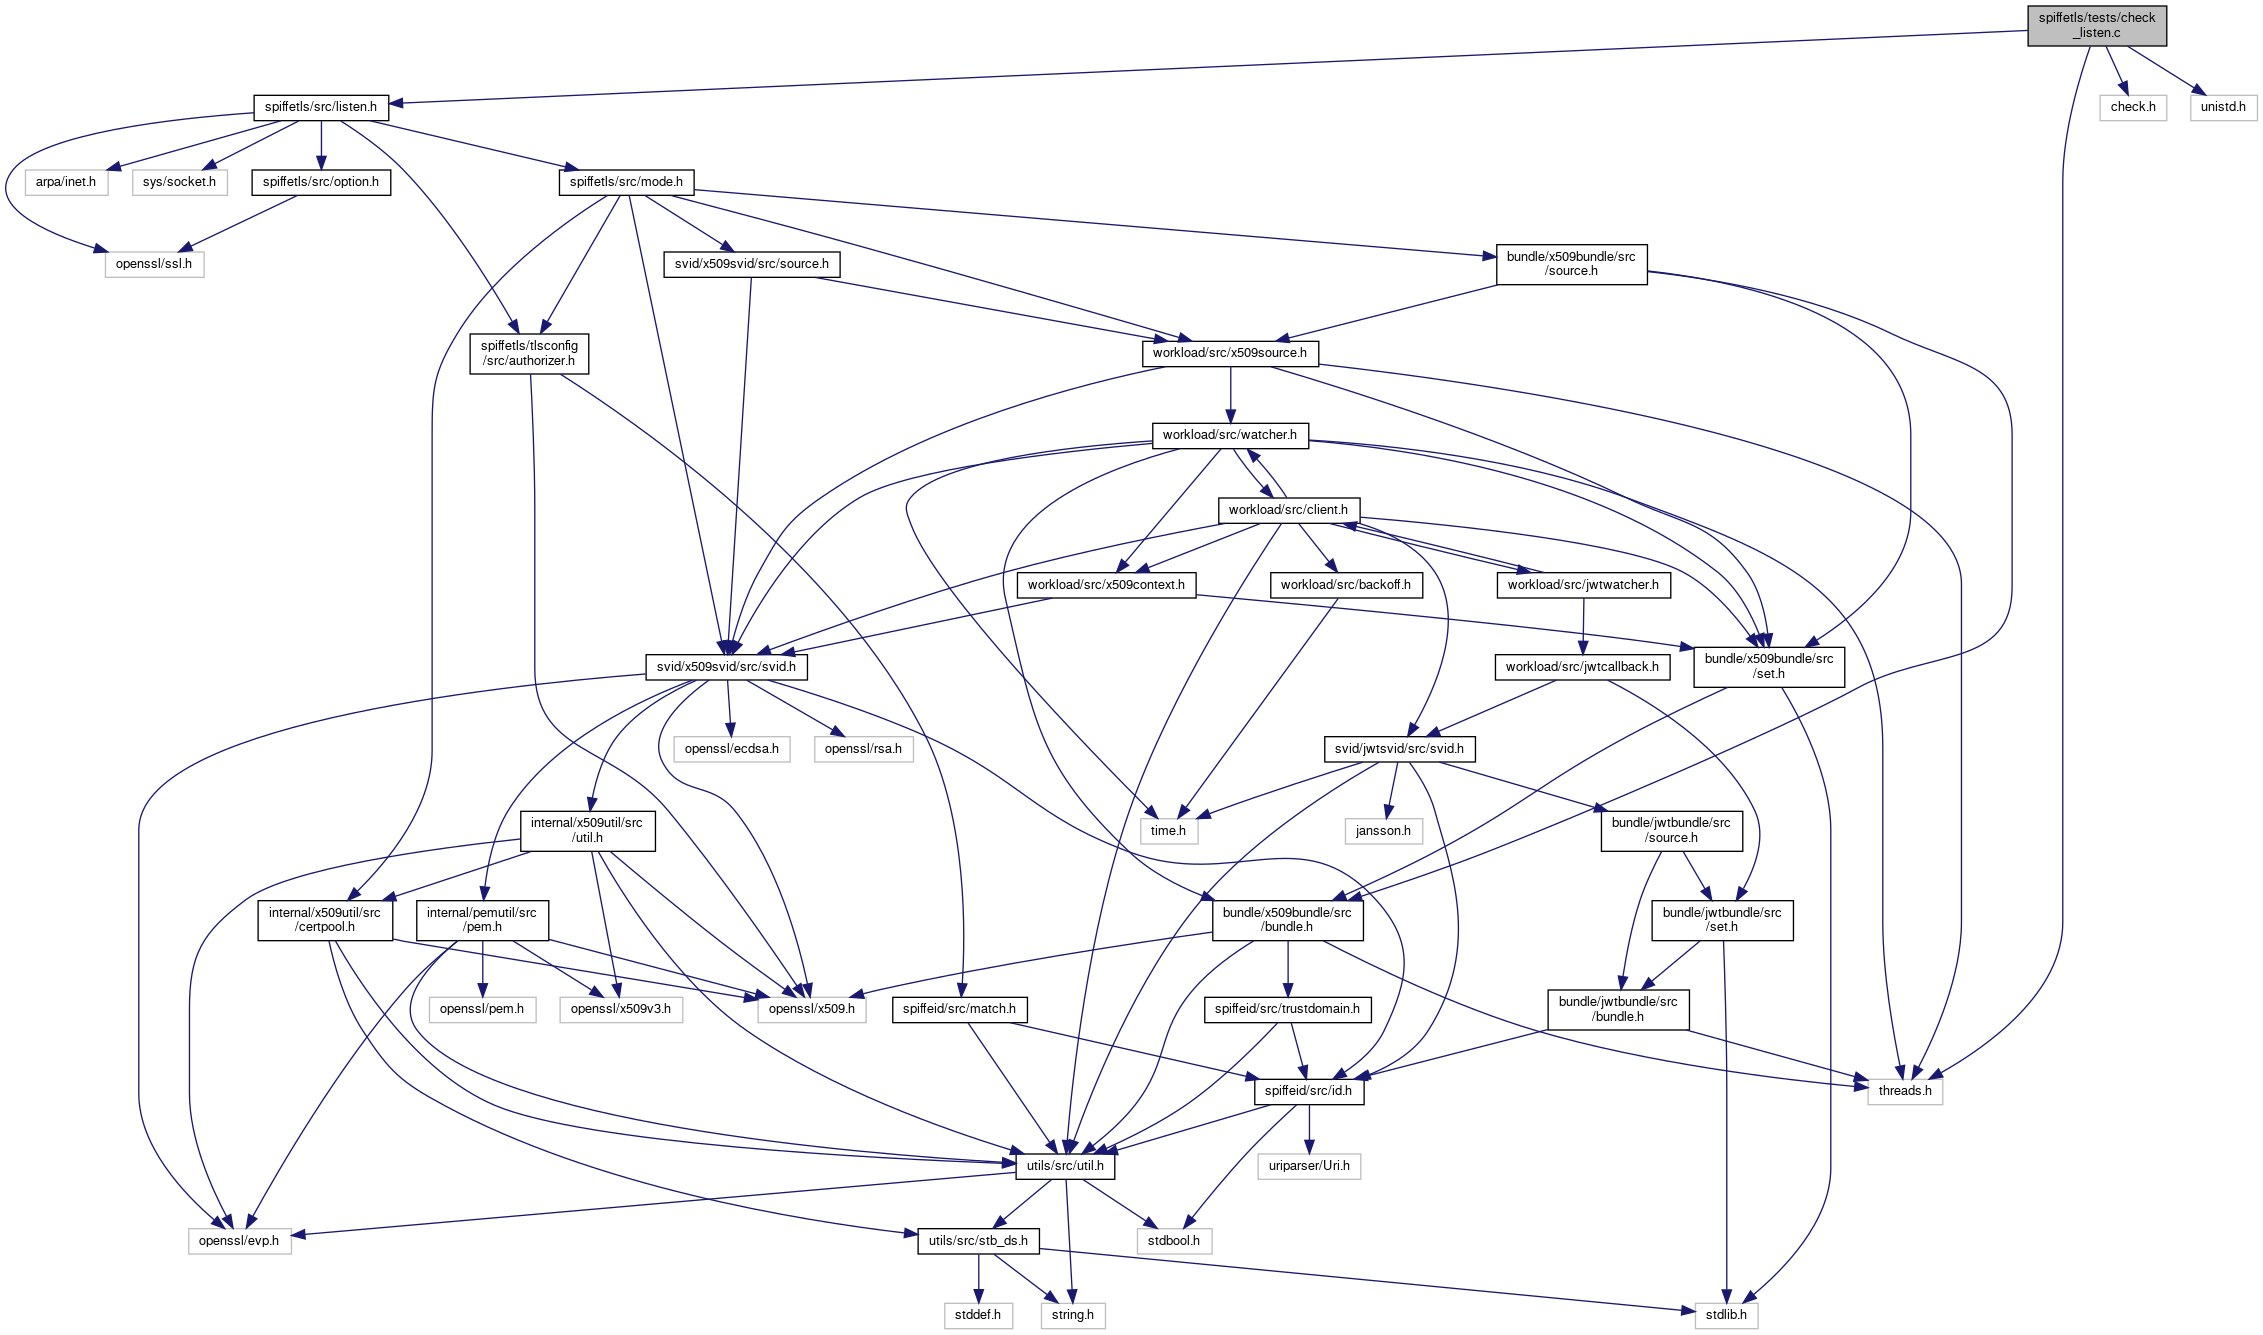
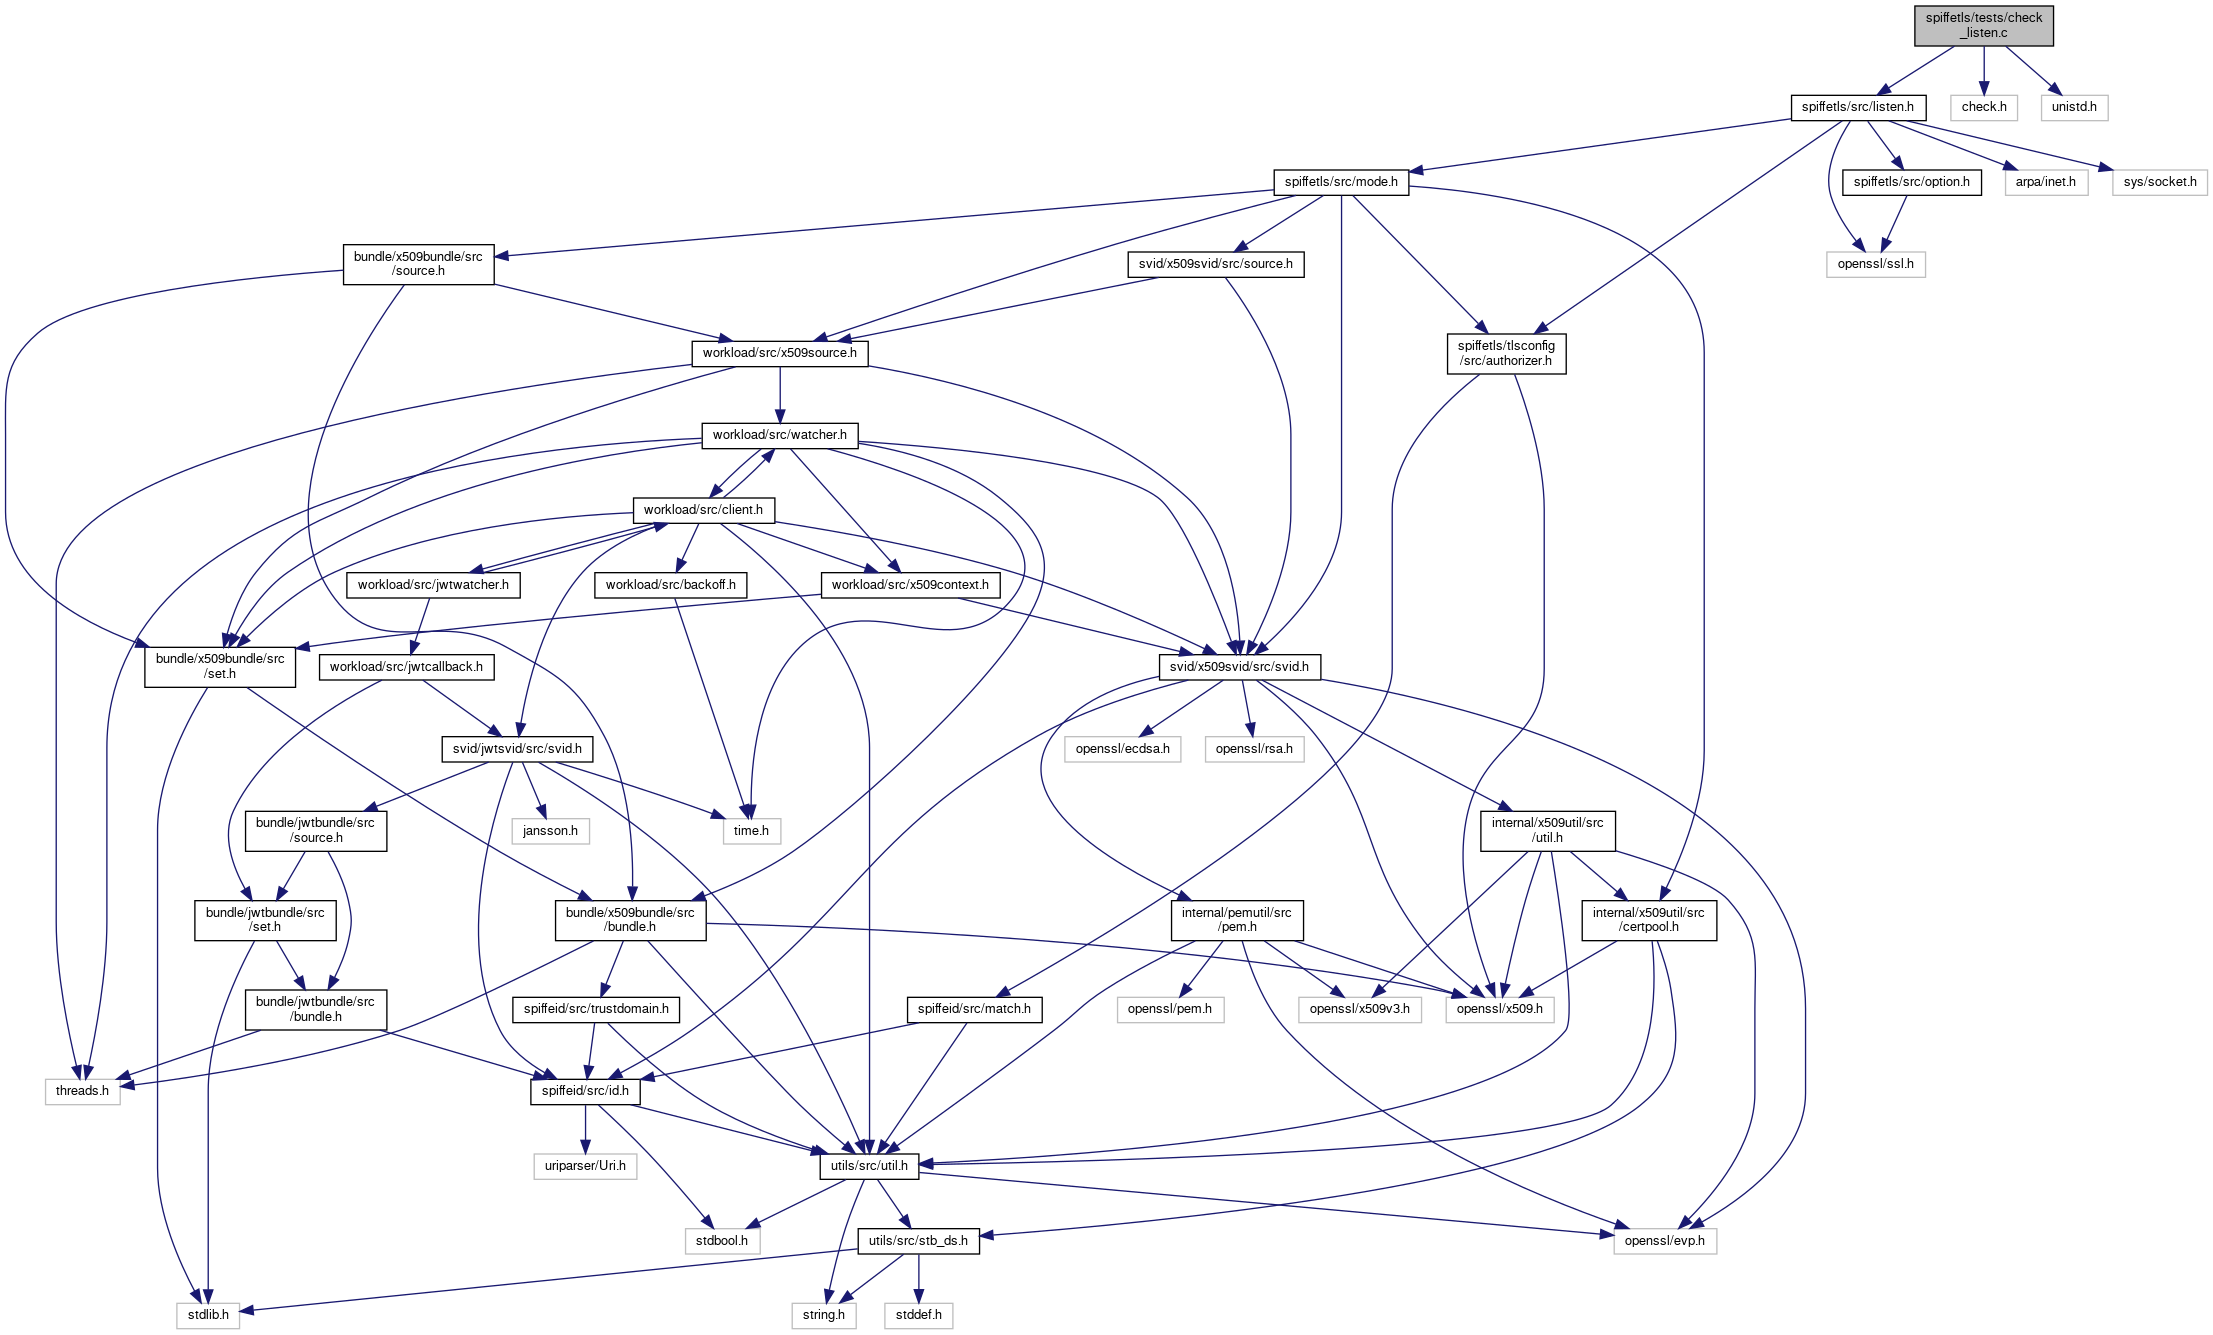
deploy: 0d7f5fcdf945ccb3934a4ad418f48ba62cfd3ca9

diff --git a/check__listen_8c.html b/check__listen_8c.html
@@ -75,61 +75,60 @@ $(function() {
 <div class="contents">
 <div class="textblock"><code>#include &quot;<a class="el" href="listen_8h_source.html">spiffetls/src/listen.h</a>&quot;</code><br />
 <code>#include &lt;check.h&gt;</code><br />
-<code>#include &lt;threads.h&gt;</code><br />
 <code>#include &lt;unistd.h&gt;</code><br />
 </div><div class="textblock"><div class="dynheader">
 Include dependency graph for check_listen.c:</div>
 <div class="dyncontent">
 <div class="center"><img src="check__listen_8c__incl.png" border="0" usemap="#aspiffetls_2tests_2check__listen_8c" alt=""/></div>
 <map name="aspiffetls_2tests_2check__listen_8c" id="aspiffetls_2tests_2check__listen_8c">
-<area shape="rect" title=" " alt="" coords="2028,5,2167,47"/>
-<area shape="rect" href="listen_8h.html" title=" " alt="" coords="254,95,389,121"/>
-<area shape="rect" title=" " alt="" coords="1868,1079,1943,1105"/>
-<area shape="rect" title=" " alt="" coords="2100,95,2167,121"/>
-<area shape="rect" title=" " alt="" coords="2191,95,2257,121"/>
-<area shape="rect" href="mode_8h.html" title=" " alt="" coords="559,169,694,196"/>
-<area shape="rect" href="authorizer_8h.html" title=" " alt="" coords="470,333,589,375"/>
-<area shape="rect" href="option_8h.html" title=" " alt="" coords="252,169,391,196"/>
-<area shape="rect" title=" " alt="" coords="105,251,204,278"/>
-<area shape="rect" title=" " alt="" coords="25,169,108,196"/>
-<area shape="rect" title=" " alt="" coords="133,169,227,196"/>
-<area shape="rect" href="bundle_2x509bundle_2src_2source_8h.html" title=" " alt="" coords="1497,244,1647,285"/>
-<area shape="rect" href="x509source_8h.html" title=" " alt="" coords="1143,341,1319,367"/>
-<area shape="rect" href="x509svid_2src_2svid_8h.html" title=" " alt="" coords="646,654,807,681"/>
-<area shape="rect" href="certpool_8h.html" title=" " alt="" coords="258,900,393,941"/>
-<area shape="rect" href="svid_2x509svid_2src_2source_8h.html" title=" " alt="" coords="664,251,840,278"/>
-<area shape="rect" href="x509bundle_2src_2bundle_8h.html" title=" " alt="" coords="1213,900,1363,941"/>
-<area shape="rect" href="x509bundle_2src_2set_8h.html" title=" " alt="" coords="1694,647,1845,688"/>
-<area shape="rect" href="trustdomain_8h.html" title=" " alt="" coords="1205,997,1371,1023"/>
-<area shape="rect" href="utils_2src_2util_8h.html" title=" " alt="" coords="1016,1153,1115,1180"/>
-<area shape="rect" title=" " alt="" coords="758,997,866,1023"/>
-<area shape="rect" href="id_8h.html" title=" " alt="" coords="1255,1079,1364,1105"/>
-<area shape="rect" href="stb__ds_8h.html" title=" " alt="" coords="918,1228,1039,1255"/>
-<area shape="rect" title=" " alt="" coords="1041,1303,1105,1329"/>
-<area shape="rect" title=" " alt="" coords="189,1228,291,1255"/>
-<area shape="rect" title=" " alt="" coords="1137,1228,1212,1255"/>
-<area shape="rect" title=" " alt="" coords="945,1303,1013,1329"/>
-<area shape="rect" title=" " alt="" coords="1695,1303,1758,1329"/>
-<area shape="rect" title=" " alt="" coords="1258,1153,1361,1180"/>
-<area shape="rect" href="watcher_8h.html" title=" " alt="" coords="1153,423,1309,449"/>
-<area shape="rect" href="pem_8h.html" title=" " alt="" coords="417,900,549,941"/>
-<area shape="rect" href="internal_2x509util_2src_2util_8h.html" title=" " alt="" coords="521,811,655,852"/>
-<area shape="rect" title=" " alt="" coords="674,736,790,763"/>
-<area shape="rect" title=" " alt="" coords="815,736,913,763"/>
-<area shape="rect" title=" " alt="" coords="429,997,536,1023"/>
-<area shape="rect" title=" " alt="" coords="560,997,683,1023"/>
-<area shape="rect" href="client_8h.html" title=" " alt="" coords="1219,497,1360,524"/>
-<area shape="rect" title=" " alt="" coords="1141,818,1198,845"/>
-<area shape="rect" href="x509context_8h.html" title=" " alt="" coords="1017,572,1196,599"/>
-<area shape="rect" href="jwtsvid_2src_2svid_8h.html" title=" " alt="" coords="1325,736,1475,763"/>
-<area shape="rect" href="backoff_8h.html" title=" " alt="" coords="1271,572,1423,599"/>
-<area shape="rect" href="jwtwatcher_8h.html" title=" " alt="" coords="1497,572,1671,599"/>
-<area shape="rect" href="bundle_2jwtbundle_2src_2source_8h.html" title=" " alt="" coords="1601,811,1743,852"/>
-<area shape="rect" title=" " alt="" coords="1345,818,1423,845"/>
-<area shape="rect" href="jwtbundle_2src_2bundle_8h.html" title=" " alt="" coords="1548,989,1689,1031"/>
-<area shape="rect" href="jwtbundle_2src_2set_8h.html" title=" " alt="" coords="1652,900,1793,941"/>
-<area shape="rect" href="jwtcallback_8h.html" title=" " alt="" coords="1495,654,1670,681"/>
-<area shape="rect" href="match_8h.html" title=" " alt="" coords="893,997,1027,1023"/>
+<area shape="rect" title=" " alt="" coords="1915,5,2054,47"/>
+<area shape="rect" href="listen_8h.html" title=" " alt="" coords="1792,95,1926,121"/>
+<area shape="rect" title=" " alt="" coords="1951,95,2018,121"/>
+<area shape="rect" title=" " alt="" coords="2042,95,2108,121"/>
+<area shape="rect" href="mode_8h.html" title=" " alt="" coords="1274,169,1409,196"/>
+<area shape="rect" href="authorizer_8h.html" title=" " alt="" coords="1448,333,1566,375"/>
+<area shape="rect" href="option_8h.html" title=" " alt="" coords="1843,169,1982,196"/>
+<area shape="rect" title=" " alt="" coords="1827,251,1926,278"/>
+<area shape="rect" title=" " alt="" coords="2006,169,2088,196"/>
+<area shape="rect" title=" " alt="" coords="2113,169,2208,196"/>
+<area shape="rect" href="bundle_2x509bundle_2src_2source_8h.html" title=" " alt="" coords="344,244,494,285"/>
+<area shape="rect" href="x509source_8h.html" title=" " alt="" coords="692,341,868,367"/>
+<area shape="rect" href="x509svid_2src_2svid_8h.html" title=" " alt="" coords="1160,654,1321,681"/>
+<area shape="rect" href="certpool_8h.html" title=" " alt="" coords="1582,900,1717,941"/>
+<area shape="rect" href="svid_2x509svid_2src_2source_8h.html" title=" " alt="" coords="1128,251,1304,278"/>
+<area shape="rect" href="x509bundle_2src_2bundle_8h.html" title=" " alt="" coords="556,900,706,941"/>
+<area shape="rect" href="x509bundle_2src_2set_8h.html" title=" " alt="" coords="145,647,296,688"/>
+<area shape="rect" href="trustdomain_8h.html" title=" " alt="" coords="513,997,680,1023"/>
+<area shape="rect" href="utils_2src_2util_8h.html" title=" " alt="" coords="820,1153,919,1180"/>
+<area shape="rect" title=" " alt="" coords="1446,997,1554,1023"/>
+<area shape="rect" title=" " alt="" coords="46,1079,120,1105"/>
+<area shape="rect" href="id_8h.html" title=" " alt="" coords="531,1079,640,1105"/>
+<area shape="rect" href="stb__ds_8h.html" title=" " alt="" coords="858,1228,980,1255"/>
+<area shape="rect" title=" " alt="" coords="792,1303,856,1329"/>
+<area shape="rect" title=" " alt="" coords="1614,1228,1717,1255"/>
+<area shape="rect" title=" " alt="" coords="686,1228,760,1255"/>
+<area shape="rect" title=" " alt="" coords="885,1303,953,1329"/>
+<area shape="rect" title=" " alt="" coords="177,1303,240,1329"/>
+<area shape="rect" title=" " alt="" coords="534,1153,637,1180"/>
+<area shape="rect" href="watcher_8h.html" title=" " alt="" coords="702,423,858,449"/>
+<area shape="rect" href="pem_8h.html" title=" " alt="" coords="1172,900,1304,941"/>
+<area shape="rect" href="internal_2x509util_2src_2util_8h.html" title=" " alt="" coords="1481,811,1616,852"/>
+<area shape="rect" title=" " alt="" coords="1065,736,1181,763"/>
+<area shape="rect" title=" " alt="" coords="1206,736,1304,763"/>
+<area shape="rect" title=" " alt="" coords="1118,997,1224,1023"/>
+<area shape="rect" title=" " alt="" coords="1299,997,1422,1023"/>
+<area shape="rect" href="client_8h.html" title=" " alt="" coords="634,497,775,524"/>
+<area shape="rect" title=" " alt="" coords="724,818,781,845"/>
+<area shape="rect" href="x509context_8h.html" title=" " alt="" coords="822,572,1000,599"/>
+<area shape="rect" href="jwtsvid_2src_2svid_8h.html" title=" " alt="" coords="442,736,593,763"/>
+<area shape="rect" href="backoff_8h.html" title=" " alt="" coords="595,572,747,599"/>
+<area shape="rect" href="jwtwatcher_8h.html" title=" " alt="" coords="347,572,520,599"/>
+<area shape="rect" href="bundle_2jwtbundle_2src_2source_8h.html" title=" " alt="" coords="246,811,387,852"/>
+<area shape="rect" title=" " alt="" coords="512,818,590,845"/>
+<area shape="rect" href="jwtbundle_2src_2bundle_8h.html" title=" " alt="" coords="246,989,387,1031"/>
+<area shape="rect" href="jwtbundle_2src_2set_8h.html" title=" " alt="" coords="195,900,336,941"/>
+<area shape="rect" href="jwtcallback_8h.html" title=" " alt="" coords="320,654,494,681"/>
+<area shape="rect" href="match_8h.html" title=" " alt="" coords="908,997,1042,1023"/>
 </map>
 </div>
 </div><table class="memberdecls">
